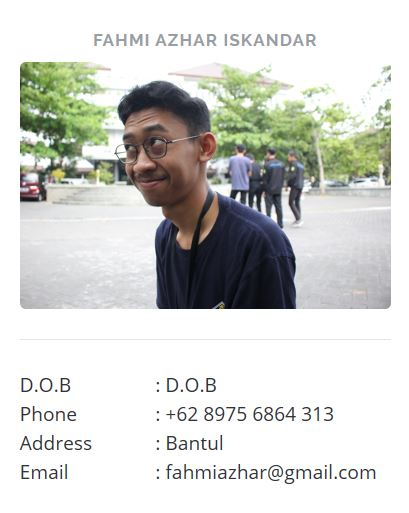
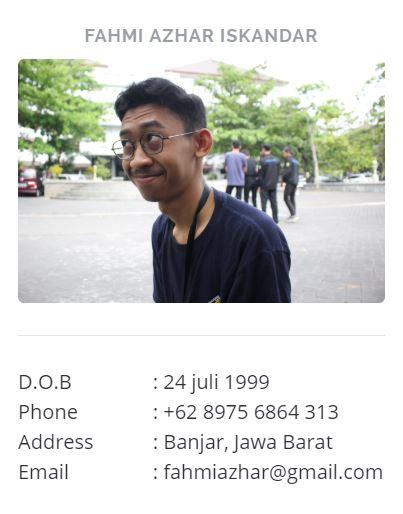
update lagi bosss

diff --git a/Jaya_Dev/index.html b/Jaya_Dev/index.html
@@ -300,15 +300,15 @@
                     <p class="mb-0">Email</p>
                   </div>
                   <div class="col-lg-8">
-                    <p class="mb-0">: D.O.B</p>
+                    <p class="mb-0">: 24 juli 1999</p>
                     <p class="mb-0">: +62 8975 6864 313</p>
-                    <p class="mb-0">: Bantul</p>
+                    <p class="mb-0">: Banjar, Jawa Barat</p>
                     <p class="mb-0">: fahmiazhar@gmail.com</p>
                   </div>
                 </div>
                 <hr>
                 <div class="text-center">
-                  <a href="img/biodata/SSFahmi.jpg" type="button" class="btn venobox" data-toggle="modal" data-target="#buy-ticket-modal" data-ticket-type="standard-access">WANTED $1000</a>
+                  <a href="img/biodata/SSFahmi.jpg" type="button" class="btn venobox" data-toggle="modal" data-target="#buy-ticket-modal" data-ticket-type="standard-access">Show</a>
                 </div>
               </div>
             </div>
@@ -337,7 +337,7 @@
                 </div>
                 <hr>
                 <div class="text-center">
-                  <button type="button" class="btn" data-toggle="modal" data-target="#buy-ticket-modal" data-ticket-type="pro-access">Buy Now</button>
+                  <button type="button" class="btn" data-toggle="modal" data-target="#buy-ticket-modal" data-ticket-type="pro-access">Show</button>
                 </div>
               </div>
             </div>
@@ -359,9 +359,9 @@
                     <p class="mb-0">Email</p>
                   </div>
                   <div class="col-lg-8">
-                    <p class="mb-0">: D.O.B</p>
+                    <p class="mb-0">: 30 Juni 1999</p>
                     <p class="mb-0">: +62 8975 6864 311</p>
-                    <p class="mb-0">: Sleman</p>
+                    <p class="mb-0">: Sleman, Yogyakarta</p>
                     <p class="mb-0">: mutan1771@gmail.com</p>
                   </div>
                 </div>
@@ -390,15 +390,15 @@
                     <p class="mb-0">Email</p>
                   </div>
                   <div class="col-lg-8">
-                    <p class="mb-0">: D.O.B</p>
+                    <p class="mb-0">: 28 september 1999</p>
                     <p class="mb-0">: +62 8975 6864 311</p>
-                    <p class="mb-0">: Klaten</p>
+                    <p class="mb-0">: Klaten, Jawa Tengah</p>
                     <p class="mb-0">: arditya@gmail.com</p>
                   </div>
                 </div>
                 <hr>
                 <div class="text-center">
-                  <button type="button" class="btn" data-toggle="modal" data-target="#buy-ticket-modal" data-ticket-type="pro-access">Buy Now</button>
+                  <a href="img/biodata/SSArditya.JPG" type="button" class="btn venobox" data-toggle="modal" data-target="#buy-ticket-modal" data-ticket-type="standard-access">Show</a>
                 </div>
               </div>
             </div>
